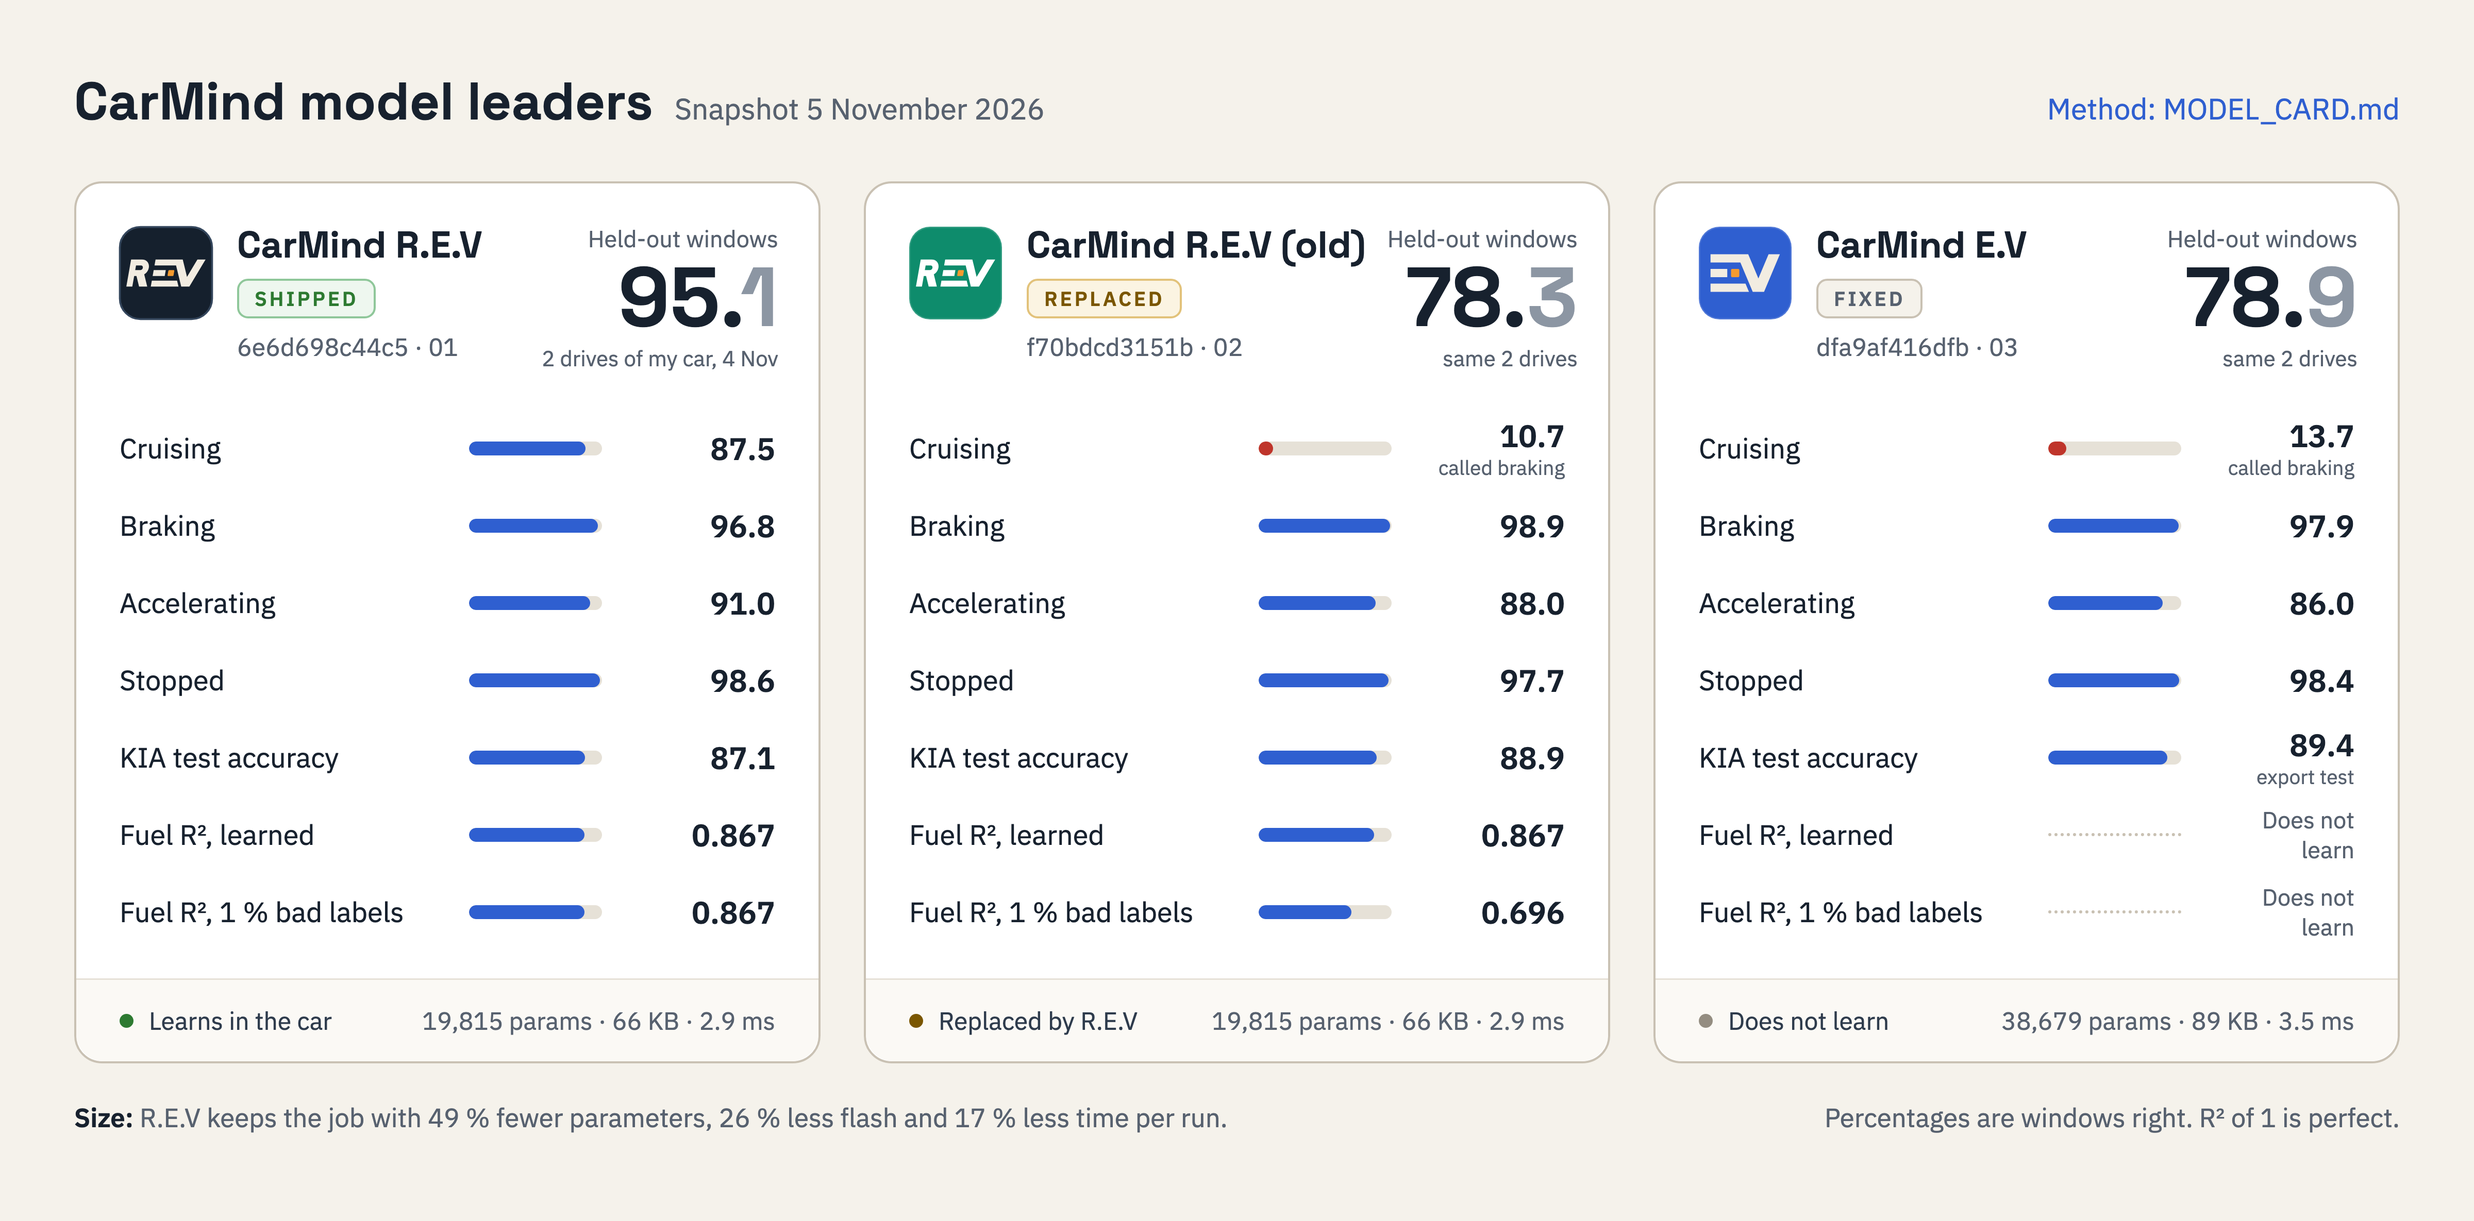
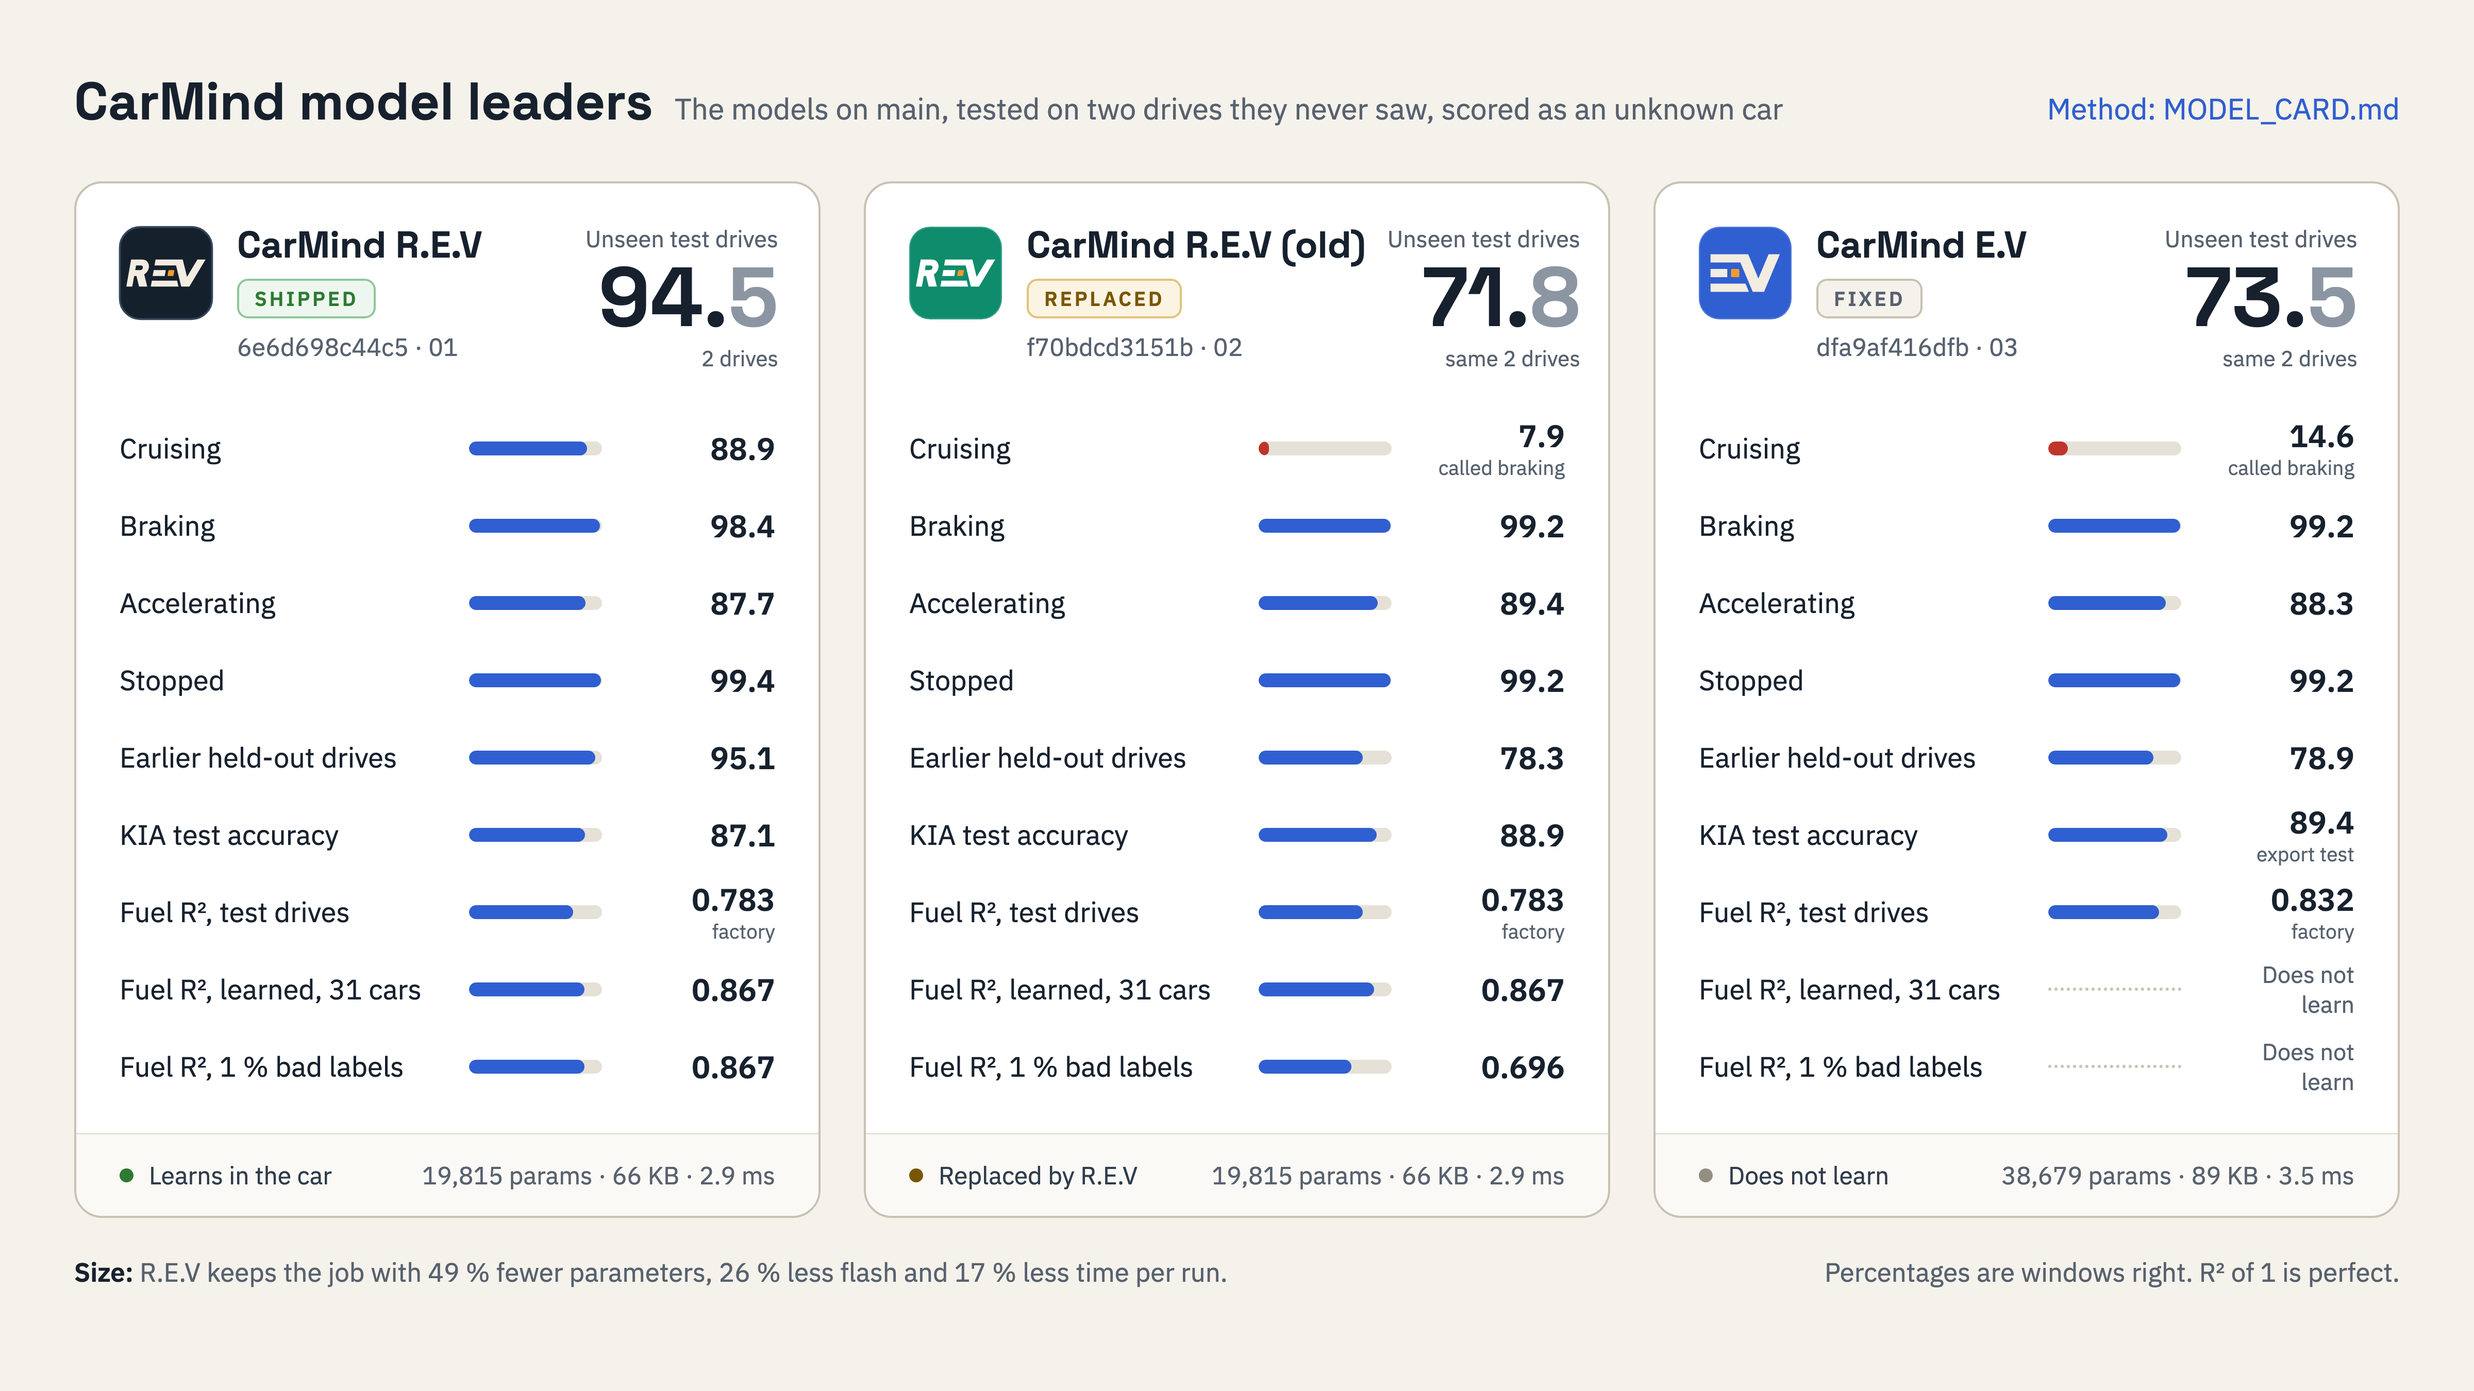
Model cards: the models on main tested on two unseen drives, scored as an unknown car
Claude-Session: https://claude.ai/code/session_01XTAvvNGWPbxk6e88iM5qjd

diff --git a/docs/images/src/leaders.html b/docs/images/src/leaders.html
@@ -49,65 +49,67 @@ h1 { font-family: 'Space Grotesk', sans-serif; font-weight: 700; font-size: 34px
 </head>
 <body>
 <div class="wrap">
-  <div class="head"><h1>CarMind model leaders</h1><span class="snap">Snapshot 5 November 2026</span><span class="method">Method: MODEL_CARD.md</span></div>
+  <div class="head"><h1>CarMind model leaders</h1><span class="snap">The models on main, tested on two drives they never saw, scored as an unknown car</span><span class="method">Method: MODEL_CARD.md</span></div>
   <div class="cards">
-
-    <div class="card">
-      <div class="top">
-        <div class="logo"><img src="../../../assets/logo/carmind-rev-small.svg" alt=""></div>
-        <div><div class="name">CarMind R.E.V</div><span class="badge ship">SHIPPED</span><div class="who">6e6d698c44c5 · 01</div></div>
-        <div class="score"><div class="lbl">Held-out windows</div><div class="big">95.<span>1</span></div><div class="rng">2 drives of my car, 4 Nov</div></div>
-      </div>
-      <div class="rows">
-        <div class="row"><span class="k">Cruising</span><div class="bar"><i style="width:87.5%"></i></div><span class="v">87.5</span></div>
-        <div class="row"><span class="k">Braking</span><div class="bar"><i style="width:96.8%"></i></div><span class="v">96.8</span></div>
-        <div class="row"><span class="k">Accelerating</span><div class="bar"><i style="width:91%"></i></div><span class="v">91.0</span></div>
-        <div class="row"><span class="k">Stopped</span><div class="bar"><i style="width:98.6%"></i></div><span class="v">98.6</span></div>
-        <div class="row"><span class="k">KIA test accuracy</span><div class="bar"><i style="width:87.1%"></i></div><span class="v">87.1</span></div>
-        <div class="row"><span class="k">Fuel R², learned</span><div class="bar"><i style="width:86.7%"></i></div><span class="v">0.867</span></div>
-        <div class="row"><span class="k">Fuel R², 1 % bad labels</span><div class="bar"><i style="width:86.7%"></i></div><span class="v">0.867</span></div>
-      </div>
-      <div class="foot"><span class="d" style="background:#2D7A31"></span>Learns in the car<span class="spec">19,815 params · 66 KB · 2.9 ms</span></div>
-    </div>
-
-    <div class="card">
-      <div class="top">
-        <div class="logo"><img src="../../../assets/logo/carmind-rev-old-small.svg" alt=""></div>
-        <div><div class="name">CarMind R.E.V (old)</div><span class="badge repl">REPLACED</span><div class="who">f70bdcd3151b · 02</div></div>
-        <div class="score"><div class="lbl">Held-out windows</div><div class="big">78.<span>3</span></div><div class="rng">same 2 drives</div></div>
-      </div>
-      <div class="rows">
-        <div class="row"><span class="k">Cruising</span><div class="bar low"><i style="width:10.7%"></i></div><span class="v">10.7<small>called braking</small></span></div>
-        <div class="row"><span class="k">Braking</span><div class="bar"><i style="width:98.9%"></i></div><span class="v">98.9</span></div>
-        <div class="row"><span class="k">Accelerating</span><div class="bar"><i style="width:88%"></i></div><span class="v">88.0</span></div>
-        <div class="row"><span class="k">Stopped</span><div class="bar"><i style="width:97.7%"></i></div><span class="v">97.7</span></div>
-        <div class="row"><span class="k">KIA test accuracy</span><div class="bar"><i style="width:88.9%"></i></div><span class="v">88.9</span></div>
-        <div class="row"><span class="k">Fuel R², learned</span><div class="bar"><i style="width:86.7%"></i></div><span class="v">0.867</span></div>
-        <div class="row"><span class="k">Fuel R², 1 % bad labels</span><div class="bar"><i style="width:69.6%"></i></div><span class="v">0.696</span></div>
-      </div>
-      <div class="foot"><span class="d" style="background:#7A5600"></span>Replaced by R.E.V<span class="spec">19,815 params · 66 KB · 2.9 ms</span></div>
-    </div>
-
-    <div class="card">
-      <div class="top">
-        <div class="logo"><img src="../../../assets/logo/carmind-ev-small.svg" alt=""></div>
-        <div><div class="name">CarMind E.V</div><span class="badge fixed">FIXED</span><div class="who">dfa9af416dfb · 03</div></div>
-        <div class="score"><div class="lbl">Held-out windows</div><div class="big">78.<span>9</span></div><div class="rng">same 2 drives</div></div>
-      </div>
-      <div class="rows">
-        <div class="row"><span class="k">Cruising</span><div class="bar low"><i style="width:13.7%"></i></div><span class="v">13.7<small>called braking</small></span></div>
-        <div class="row"><span class="k">Braking</span><div class="bar"><i style="width:97.9%"></i></div><span class="v">97.9</span></div>
-        <div class="row"><span class="k">Accelerating</span><div class="bar"><i style="width:86%"></i></div><span class="v">86.0</span></div>
-        <div class="row"><span class="k">Stopped</span><div class="bar"><i style="width:98.4%"></i></div><span class="v">98.4</span></div>
-        <div class="row"><span class="k">KIA test accuracy</span><div class="bar"><i style="width:89.4%"></i></div><span class="v">89.4<small>export test</small></span></div>
-        <div class="row"><span class="k">Fuel R², learned</span><div class="dots"></div><span class="v na">Does not learn</span></div>
-        <div class="row"><span class="k">Fuel R², 1 % bad labels</span><div class="dots"></div><span class="v na">Does not learn</span></div>
-      </div>
-      <div class="foot"><span class="d" style="background:#948D81"></span>Does not learn<span class="spec">38,679 params · 89 KB · 3.5 ms</span></div>
-    </div>
-
-  </div>
-  <div class="ctx"><span><b>Size:</b> R.E.V keeps the job with 49 % fewer parameters, 26 % less flash and 17 % less time per run.</span><span class="r">Percentages are windows right. R² of 1 is perfect.</span></div>
+<div class="card">
+<div class="top">
+<div class="logo"><img src="../../../assets/logo/carmind-rev-small.svg" alt=""></div>
+<div><div class="name">CarMind R.E.V</div><span class="badge ship">SHIPPED</span><div class="who">6e6d698c44c5 · 01</div></div>
+<div class="score"><div class="lbl">Unseen test drives</div><div class="big">94.<span>5</span></div><div class="rng">2 drives</div></div>
+</div>
+<div class="rows">
+<div class="row"><span class="k">Cruising</span><div class="bar"><i style="width:88.9%"></i></div><span class="v">88.9</span></div>
+<div class="row"><span class="k">Braking</span><div class="bar"><i style="width:98.4%"></i></div><span class="v">98.4</span></div>
+<div class="row"><span class="k">Accelerating</span><div class="bar"><i style="width:87.7%"></i></div><span class="v">87.7</span></div>
+<div class="row"><span class="k">Stopped</span><div class="bar"><i style="width:99.4%"></i></div><span class="v">99.4</span></div>
+<div class="row"><span class="k">Earlier held-out drives</span><div class="bar"><i style="width:95.1%"></i></div><span class="v">95.1</span></div>
+<div class="row"><span class="k">KIA test accuracy</span><div class="bar"><i style="width:87.1%"></i></div><span class="v">87.1</span></div>
+<div class="row"><span class="k">Fuel R², test drives</span><div class="bar"><i style="width:78.3%"></i></div><span class="v">0.783<small>factory</small></span></div>
+<div class="row"><span class="k">Fuel R², learned, 31 cars</span><div class="bar"><i style="width:86.7%"></i></div><span class="v">0.867</span></div>
+<div class="row"><span class="k">Fuel R², 1 % bad labels</span><div class="bar"><i style="width:86.7%"></i></div><span class="v">0.867</span></div>
+</div>
+<div class="foot"><span class="d" style="background:#2D7A31"></span>Learns in the car<span class="spec">19,815 params · 66 KB · 2.9 ms</span></div>
+</div>
+<div class="card">
+<div class="top">
+<div class="logo"><img src="../../../assets/logo/carmind-rev-old-small.svg" alt=""></div>
+<div><div class="name">CarMind R.E.V (old)</div><span class="badge repl">REPLACED</span><div class="who">f70bdcd3151b · 02</div></div>
+<div class="score"><div class="lbl">Unseen test drives</div><div class="big">71.<span>8</span></div><div class="rng">same 2 drives</div></div>
+</div>
+<div class="rows">
+<div class="row"><span class="k">Cruising</span><div class="bar low"><i style="width:7.9%"></i></div><span class="v">7.9<small>called braking</small></span></div>
+<div class="row"><span class="k">Braking</span><div class="bar"><i style="width:99.2%"></i></div><span class="v">99.2</span></div>
+<div class="row"><span class="k">Accelerating</span><div class="bar"><i style="width:89.4%"></i></div><span class="v">89.4</span></div>
+<div class="row"><span class="k">Stopped</span><div class="bar"><i style="width:99.2%"></i></div><span class="v">99.2</span></div>
+<div class="row"><span class="k">Earlier held-out drives</span><div class="bar"><i style="width:78.3%"></i></div><span class="v">78.3</span></div>
+<div class="row"><span class="k">KIA test accuracy</span><div class="bar"><i style="width:88.9%"></i></div><span class="v">88.9</span></div>
+<div class="row"><span class="k">Fuel R², test drives</span><div class="bar"><i style="width:78.3%"></i></div><span class="v">0.783<small>factory</small></span></div>
+<div class="row"><span class="k">Fuel R², learned, 31 cars</span><div class="bar"><i style="width:86.7%"></i></div><span class="v">0.867</span></div>
+<div class="row"><span class="k">Fuel R², 1 % bad labels</span><div class="bar"><i style="width:69.6%"></i></div><span class="v">0.696</span></div>
+</div>
+<div class="foot"><span class="d" style="background:#7A5600"></span>Replaced by R.E.V<span class="spec">19,815 params · 66 KB · 2.9 ms</span></div>
+</div>
+<div class="card">
+<div class="top">
+<div class="logo"><img src="../../../assets/logo/carmind-ev-small.svg" alt=""></div>
+<div><div class="name">CarMind E.V</div><span class="badge fixed">FIXED</span><div class="who">dfa9af416dfb · 03</div></div>
+<div class="score"><div class="lbl">Unseen test drives</div><div class="big">73.<span>5</span></div><div class="rng">same 2 drives</div></div>
+</div>
+<div class="rows">
+<div class="row"><span class="k">Cruising</span><div class="bar low"><i style="width:14.6%"></i></div><span class="v">14.6<small>called braking</small></span></div>
+<div class="row"><span class="k">Braking</span><div class="bar"><i style="width:99.2%"></i></div><span class="v">99.2</span></div>
+<div class="row"><span class="k">Accelerating</span><div class="bar"><i style="width:88.3%"></i></div><span class="v">88.3</span></div>
+<div class="row"><span class="k">Stopped</span><div class="bar"><i style="width:99.2%"></i></div><span class="v">99.2</span></div>
+<div class="row"><span class="k">Earlier held-out drives</span><div class="bar"><i style="width:78.9%"></i></div><span class="v">78.9</span></div>
+<div class="row"><span class="k">KIA test accuracy</span><div class="bar"><i style="width:89.4%"></i></div><span class="v">89.4<small>export test</small></span></div>
+<div class="row"><span class="k">Fuel R², test drives</span><div class="bar"><i style="width:83.2%"></i></div><span class="v">0.832<small>factory</small></span></div>
+<div class="row"><span class="k">Fuel R², learned, 31 cars</span><div class="dots"></div><span class="v na">Does not learn</span></div>
+<div class="row"><span class="k">Fuel R², 1 % bad labels</span><div class="dots"></div><span class="v na">Does not learn</span></div>
+</div>
+<div class="foot"><span class="d" style="background:#948D81"></span>Does not learn<span class="spec">38,679 params · 89 KB · 3.5 ms</span></div>
+</div>
+</div>
+<div class="ctx"><span><b>Size:</b> R.E.V keeps the job with 49 % fewer parameters, 26 % less flash and 17 % less time per run.</span><span class="r">Percentages are windows right. R² of 1 is perfect.</span></div>
 </div>
 </body>
 </html>

diff --git a/MODEL_CARD.md b/MODEL_CARD.md
@@ -25,6 +25,7 @@ Evidence level, shown in the "Where" column:
 | **Q** | The quantised model, or its integer classifier head on features the board logged, run on a computer |
 | **R** | Replay: recorded drives played through the learners on a computer, float network, airflow hidden |
 | **D** | Drives of my own car (Nissan Sentra), labelled by a rule on the raw OBD signals |
+| **U** | Unseen test drives: two later drives of my car that no model on `main` had seen, driven unusually ([docs/TEST_DRIVES.md](docs/TEST_DRIVES.md)) and scored as an unknown car. The closed-throttle level for the labels is read from each drive, and learners start from their factory state. The models run as their int8 files on a computer. |
 
 ## The two models at a glance
 
@@ -39,6 +40,10 @@ Evidence level, shown in the "Where" column:
 | Learns in the car | tank size and fill-up only (both models) | fuel read-out, airflow constant (engine size, which sizes the torque estimate), tank size | the same, outlier-robust |
 | Held-out windows, 2 drives of my car (**Q, D**) | 78.9 % | 78.3 % | 95.1 % |
 | Steady cruising, foot on the gas (**Q, D**) | 13.7 % right | 10.7 % right | 87.5 % right |
+| Unseen test drives, all labelled windows (**Q, U**) | 73.5 % | 71.8 % | 94.5 % |
+| Steady cruising, unseen test drives (**Q, U**) | 14.6 % right | 7.9 % right | 88.9 % right |
+| Fuel R², unseen test drives, factory, airflow hidden (**Q, U**) | 0.832 | 0.783 | 0.783 |
+| Fuel R² after learning through both drives (**R, U**) | does not learn | 0.771 | 0.756 |
 
 ## From E.V to the final R.E.V, step by step
 

diff --git a/README.md b/README.md
@@ -219,7 +219,7 @@ A comparison with my everyday drives is in [docs/TEST_DRIVES.md](docs/TEST_DRIVE
 
 ### CarMind R.E.V results so far
 
-<p align="center"><img src="docs/images/leaders.png" width="900" alt="CarMind model leaders. R.E.V: 95.1 percent of held-out windows right on two drives of my car, cruising 87.5, braking 96.8, accelerating 91.0, stopped 98.6, KIA test accuracy 87.1, fuel R squared 0.867 learned and 0.867 with 1 percent bad labels. R.E.V (old): 78.3 percent, cruising 10.7. E.V: 78.9 percent held-out, cruising 13.7, does not learn"></p>
+<p align="center"><img src="docs/images/leaders.png" width="900" alt="CarMind model leaders: the models on main, tested on two drives they never saw, scored as an unknown car. R.E.V: 94.5 percent of windows right, cruising 88.9, braking 98.4, accelerating 87.7, stopped 99.4, earlier held-out drives 95.1, KIA test 87.1, fuel R squared 0.783 on the test drives and 0.867 learned on 31 cars. R.E.V (old): 71.8 percent, cruising 7.9. E.V: 73.5 percent, cruising 14.6, does not learn"></p>
 
 <p align="center"><img src="docs/images/board-bench.png" width="900" alt="On-board benchmark, every number measured on the ESP32-S3 on the same windows. Ranked by the test set of my car: CarMind R.E.V 94.7 percent, 64 KB, cruising 86.3, learns in the car; MLP 85.1; TCN 84.7; CarMind E.V 79.1; CarMind R.E.V (old) 79.1; GRU 34.3. The MLP is the smallest and fastest, E.V has the best KIA macro-F1"></p>
 
